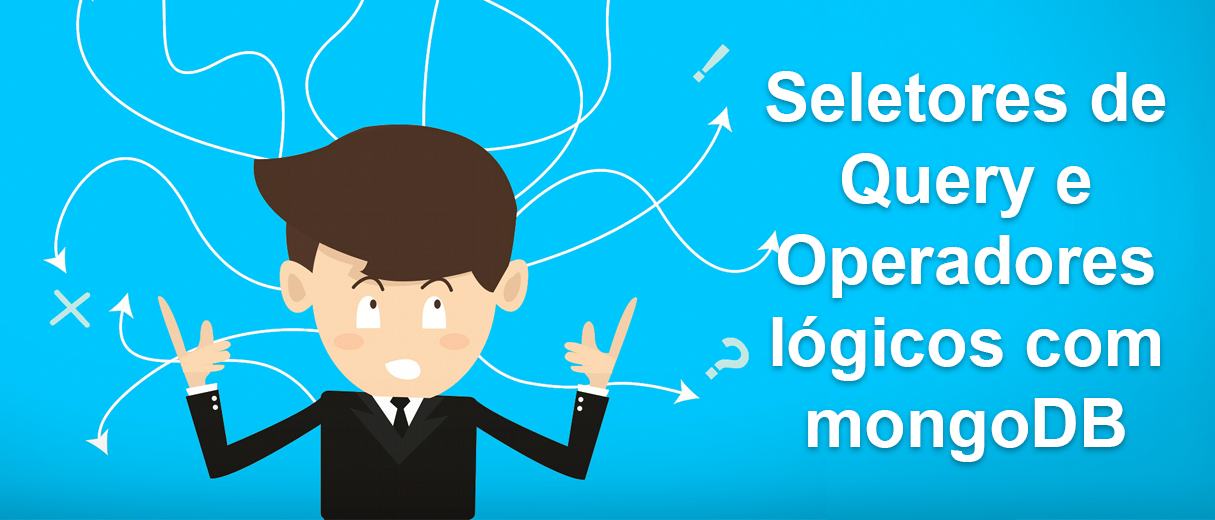
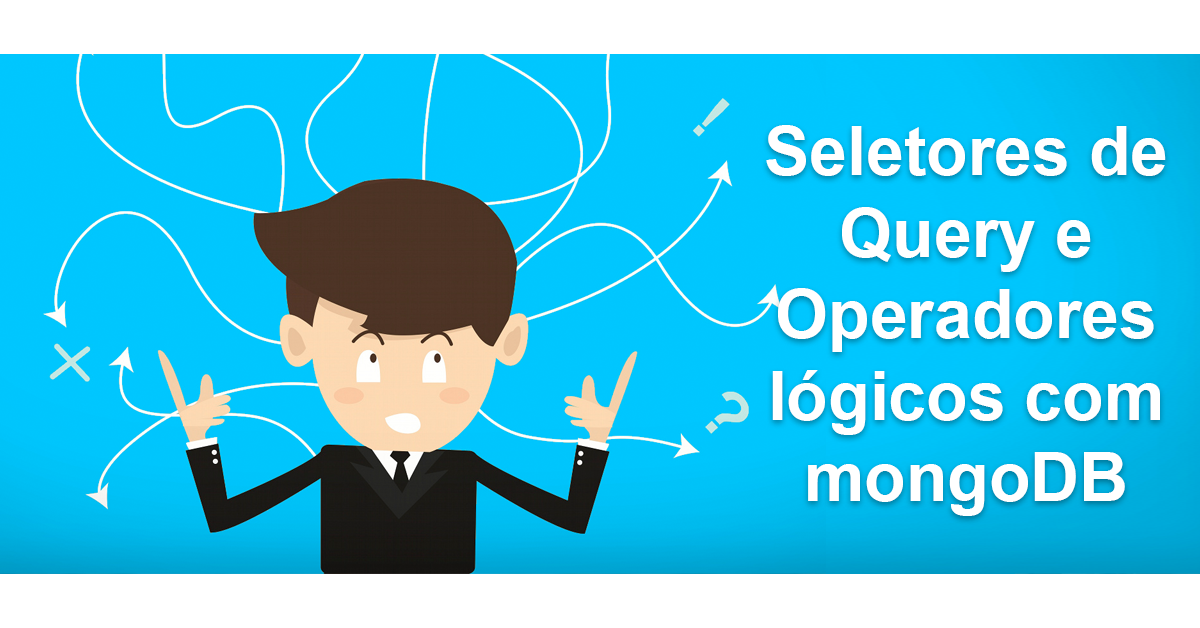
Facebook

diff --git a/Gruntfile.js b/Gruntfile.js
@@ -59,6 +59,22 @@ module.exports = function (grunt) {
                     cwd: '',
                     dest: 'media/compressed/thumbs/'
                 }]
+            },
+            opengraph: {
+                options: {
+                    sizes: [{
+                        width: 484,
+                        height: 252,
+                        aspectRatio: true,
+                    }]
+                },
+                files: [{
+                    expand: true,
+                    flatten: true,
+                    src: ['media/compressed/posts/thumbs/*.{jpg,gif,png}'],
+                    cwd: '',
+                    dest: 'media/compressed/opengraph/'
+                }]
             }
         },
 

diff --git a/_includes/open-graph.html b/_includes/open-graph.html
@@ -19,7 +19,7 @@
 	{% endif %}
 	<meta property="og:url" content="{{ page.url | replace:'index.html','' | prepend: site.url }}">
 	<meta property="og:site_name" content="{{ site.title }}">
-	<meta property="og:image" content="{{ page.image.teaser }}">
+	<meta property="og:image" content="{{ page.image.opengraph }}">
 	<meta property="og:image:type" content="image/png">
-	<meta property="og:image:width" content="470">
-	<meta property="og:image:height" content="246">
+	<meta property="og:image:width" content="484">
+	<meta property="og:image:height" content="252">

diff --git a/_posts/2015-08-01-seletores-query-operadores-logicos-mongodb.md b/_posts/2015-08-01-seletores-query-operadores-logicos-mongodb.md
@@ -9,6 +9,7 @@ category: [MongoDB]
 image:
   teaser: "media/compressed/thumbs/2015-08-01-450x250.png"
   feature: "media/compressed/posts/thumbs/2015-08-01.png"
+  opengraph: "media/compressed/opengraph/2015-08-01-484x252.png"
 ---
 
 Continuaremos a série de artigos sobre mongoDB com a exploração de seletores de query e operadores lógicos. Para isto, utilizaremos [estes dados][dados-import] que encontrei no Github, que podem ser importados utilizando o comando **mongoimport**. Você pode relembrar como utilizá-lo no link onde explico [como importar documentos utilizando o MongoDB][link-post-importar-documentos].

diff --git a/_posts/2015-07-21-primeiras-consultas-com-mongodb.md b/_posts/2015-07-21-primeiras-consultas-com-mongodb.md
@@ -8,6 +8,7 @@ category: [MongoDB]
 image:
   teaser: "media/compressed/thumbs/2015-07-21-450x250.png"
   feature: "media/compressed/posts/thumbs/2015-07-21.png"
+  opengraph: "media/compressed/opengraph/2015-07-21-484x252.png"
 ---
 
 Hoje veremos como efetuar consultas com o MongoDB. Para isto, utilizaremos a database Northwind importada no artigo anterior onde aprendemos [como importar documentos para o MongoDB]({{ site.baseurl | replace: '//', '/' }}/como-importar-documentos-para-o-mongodb).

diff --git a/_posts/2015-07-12-como-importar-documentos-para-o-mongodb.md b/_posts/2015-07-12-como-importar-documentos-para-o-mongodb.md
@@ -8,6 +8,7 @@ category: [MongoDB]
 image:
   teaser: "media/compressed/thumbs/2015-07-12-450x250.png"
   feature: "media/compressed/posts/thumbs/2015-07-12.png"
+  opengraph: "media/compressed/opengraph/2015-07-12-484x252.png"
 ---
 
 Hoje veremos como é simples importar documentos para o MongoDB. Para isto, encontrei neste [GitHub](https://github.com/tmcnab/northwind-mongo), um conjunto de arquivos com dados extraídos do famoso database Northwind da Microsoft.

diff --git a/_posts/2015-07-04-criando-um-servico-windows-para-o-mongodb.md b/_posts/2015-07-04-criando-um-servico-windows-para-o-mongodb.md
@@ -8,6 +8,7 @@ category: [MongoDB]
 image:
   teaser: "media/compressed/thumbs/2015-07-04-450x250.png"
   feature: "media/compressed/posts/thumbs/2015-07-04.png"
+  opengraph: "media/compressed/opengraph/2015-07-04-484x252.png"
 ---
 
 Podemos economizar bastante tempo ao rodar o MongoDB localmente, se tivermos um serviço do Windows dedicado exclusivamente à ele. Neste post, veremos como criar este serviço de forma simples.

diff --git a/_posts/2015-08-17-efetuando-consultas-com-mongodb-parte-3.md b/_posts/2015-08-17-efetuando-consultas-com-mongodb-parte-3.md
@@ -7,6 +7,7 @@ tags: [Consultas, MongoDB]
 image:
   teaser: "media/compressed/thumbs/2015-08-17-450x250.png"
   feature: "media/compressed/posts/thumbs/2015-08-17.png"
+  opengraph: "media/compressed/opengraph/2015-08-17-484x252.png"
 ---
 
 Neste artigo, utilizaremos os métodos de Sort e Limit do MongoDB.
